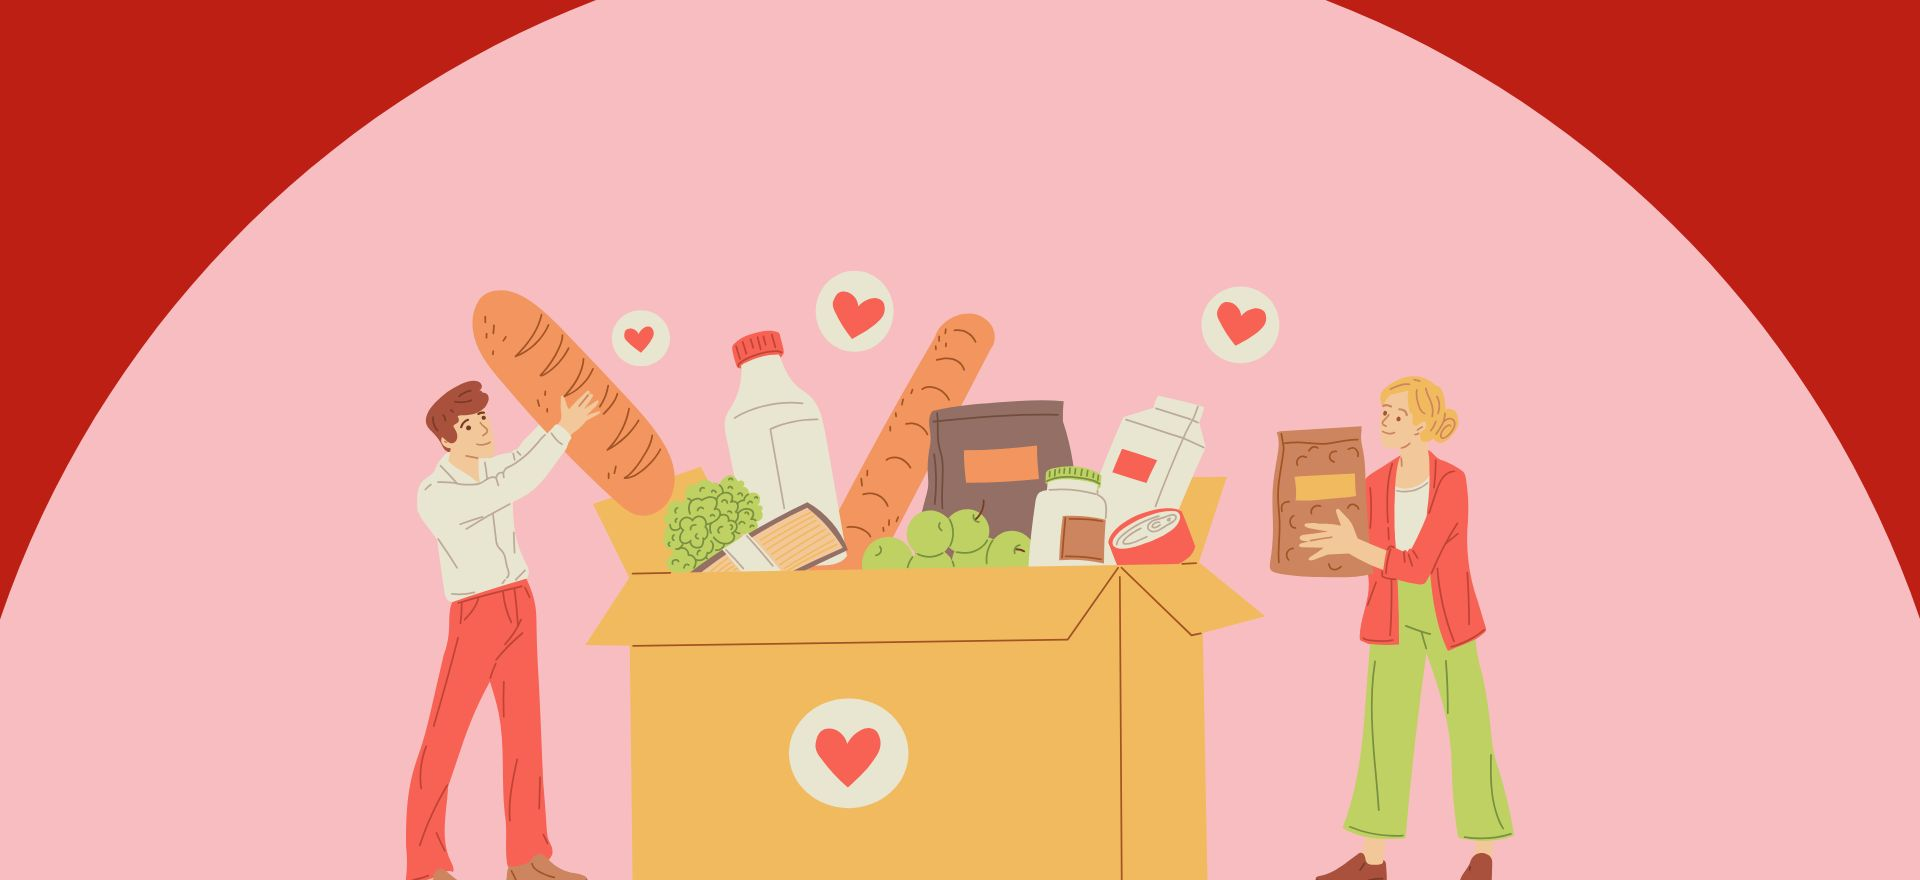
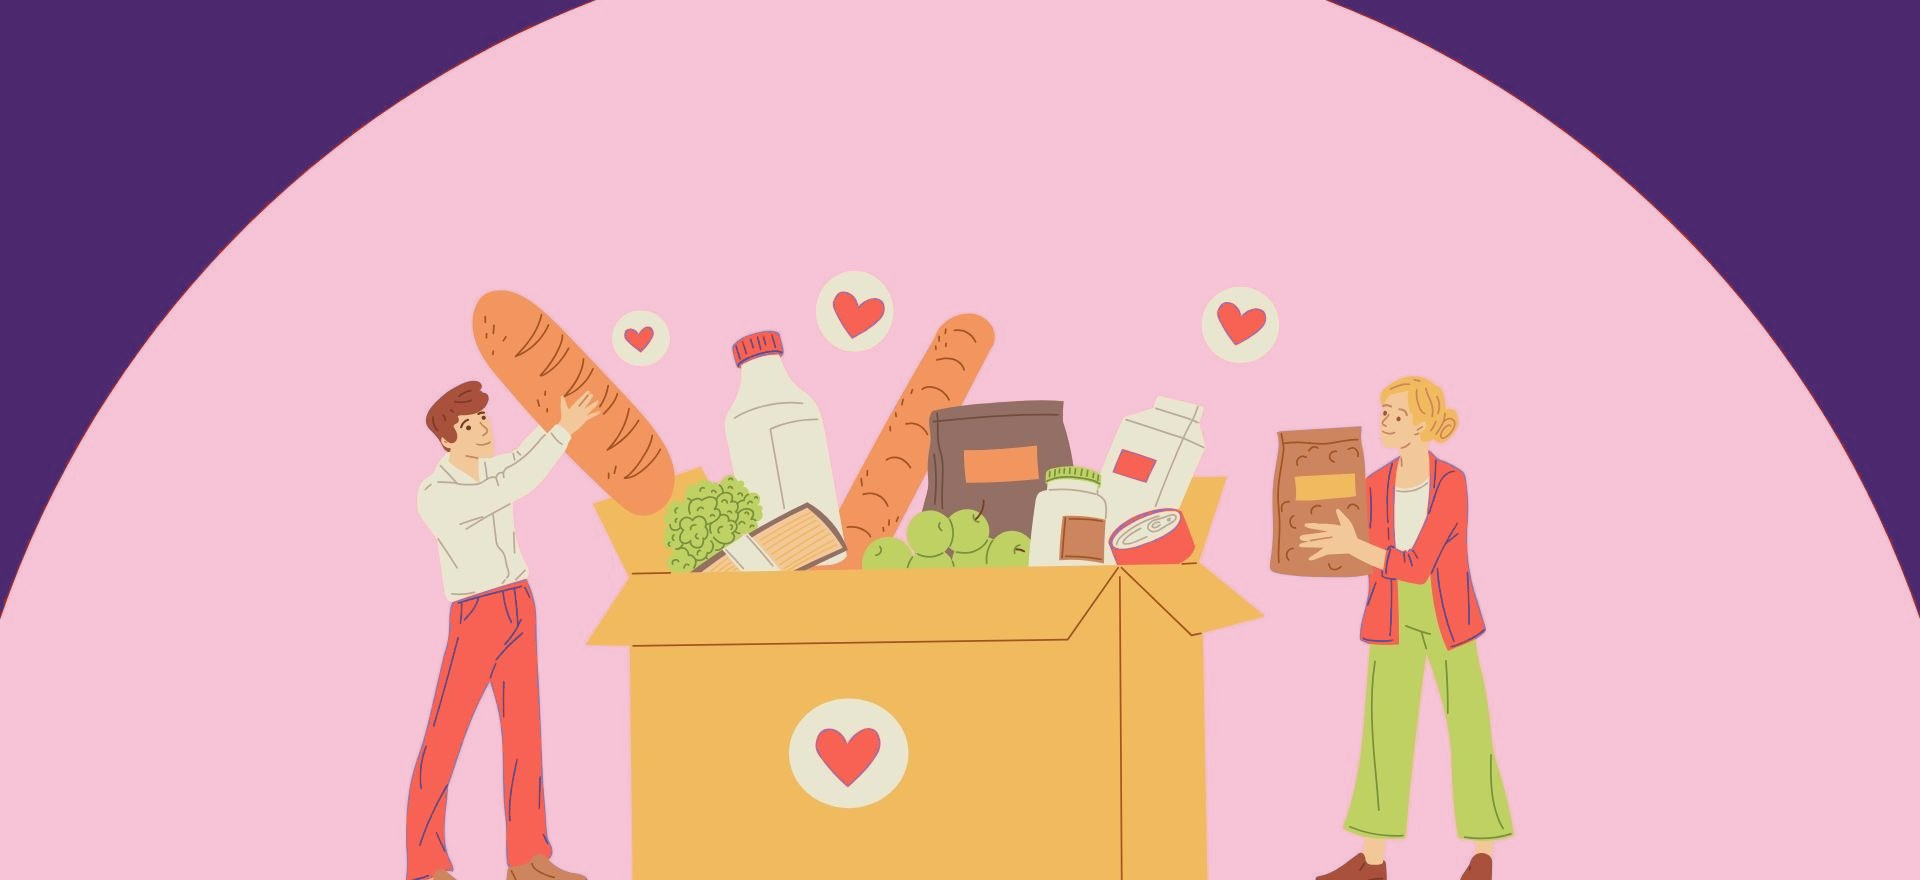
Neue Header-Farben und Hero-Foto

diff --git a/style.css b/style.css
@@ -2125,12 +2125,12 @@ main.section form button{
   margin-bottom: 48px;
 }
 
-/* Über uns, Mobile: Header in voller Bildhöhe, Schriftzug im Bild ohne Beschnitt */
+/* Mobile: Header in voller Bildhöhe, Motiv im Bild ohne Beschnitt */
 @media (max-width: 780px){
-  .about-hero--fit{
+  .about-hero{
     height: auto;
   }
-  .about-hero--fit .about-hero__img{
+  .about-hero__img{
     position: static;
     height: auto;
   }

diff --git a/ueber-uns/index.html b/ueber-uns/index.html
@@ -15,7 +15,7 @@
   <main class="about-page">
 
     <!-- HERO -->
-    <section class="about-hero about-hero--fit">
+    <section class="about-hero">
       <img class="about-hero__img" src="../assets/about/hero.jpg" alt="HappINess e. V. – Über uns" />
       <div class="about-hero__overlay"></div>
     </section>
